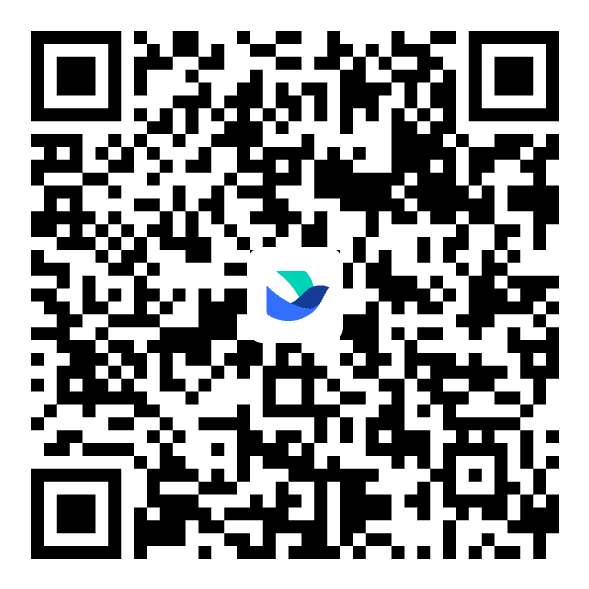
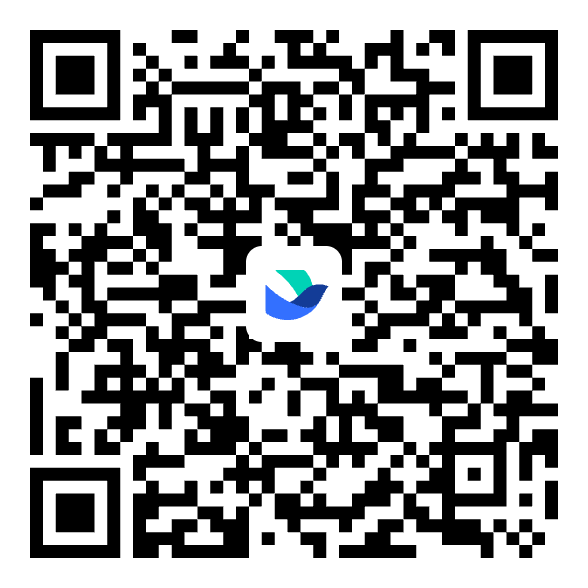
fix(web): update the Lark group QR code and join link
Claude-Session: https://claude.ai/code/session_01CCzjN92AgGiter6Qknmaro

diff --git a/web/app/links.ts b/web/app/links.ts
@@ -21,7 +21,7 @@ export const CHINA_COMMUNITY = "/wechat";
 export const WECHAT_QR = "/wechat-group.png";
 export const LARK_QR = "/lark-group.png";
 // The join link inside the Lark group's permanent QR code.
-export const LARK_JOIN = "https://applink.larksuite.com/client/chat/chatter/add_by_link?link_token=210q827f-a135-4b31-8be0-d4baf5lgh4cj&qr_code=true";
+export const LARK_JOIN = "https://applink.larksuite.com/client/chat/chatter/add_by_link?link_token=bb2ibae9-710a-4d4a-96a5-e69d85ktg60s&qr_code=true";
 // Donation page.
 export const KO_FI = "https://ko-fi.com/leepokai";
 export const EMAIL = "kevin@codync.dev";

diff --git a/README.md b/README.md
@@ -249,7 +249,7 @@ Clients and the host each name the oldest version of the other they still work w
 | --- | --- | --- |
 | [Join Discord](https://discord.gg/KBAX3Qznxh) for questions, help and feedback. | A community for Codync users in China to share tips, ask questions and give feedback. Scan with regular WeChat; WeCom is not required. | If you can't join the WeChat group, join here instead. Scan with the Lark app; you need a Lark account. |
 | | <img src="web/public/wechat-group.png" width="200" alt="QR code to join the Codync WeChat community for users in China"> | <img src="web/public/lark-group.png" width="200" alt="QR code to join the Codync Lark community for users in China"> |
-| | [Download the QR code](web/public/wechat-group.png) · [WeChat community page](https://www.codync.dev/wechat) | [Download the QR code](web/public/lark-group.png) · [Open in Lark](https://applink.larksuite.com/client/chat/chatter/add_by_link?link_token=210q827f-a135-4b31-8be0-d4baf5lgh4cj&qr_code=true) |
+| | [Download the QR code](web/public/wechat-group.png) · [WeChat community page](https://www.codync.dev/wechat) | [Download the QR code](web/public/lark-group.png) · [Open in Lark](https://applink.larksuite.com/client/chat/chatter/add_by_link?link_token=bb2ibae9-710a-4d4a-96a5-e69d85ktg60s&qr_code=true) |
 
 ## Contact
 
